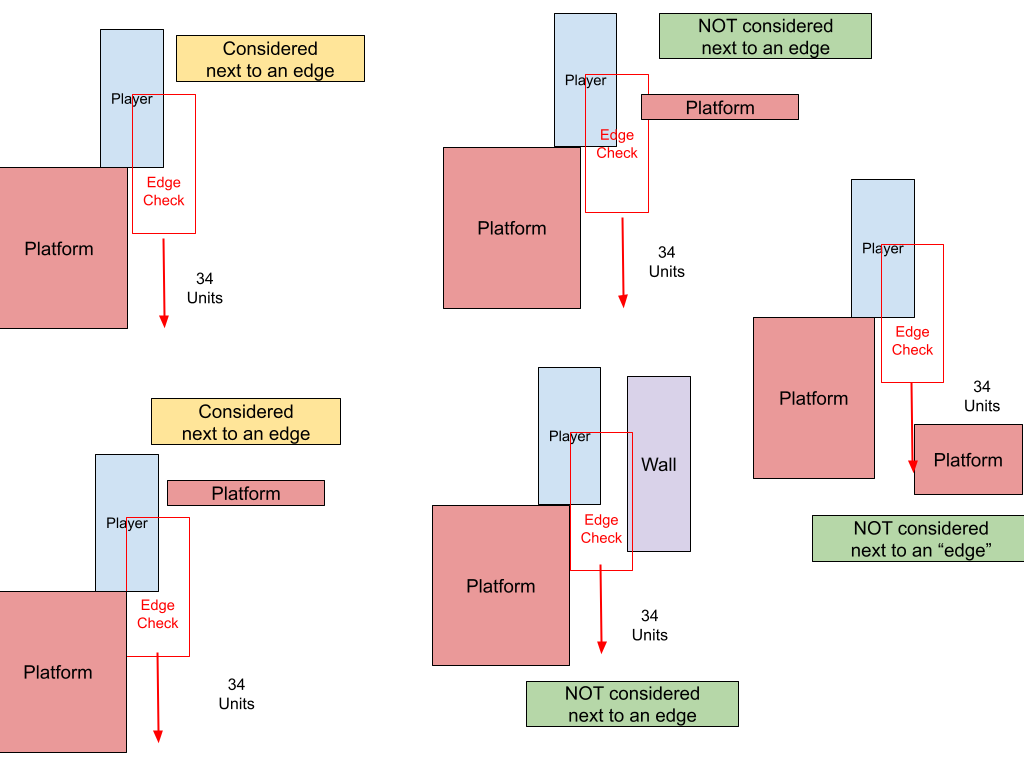
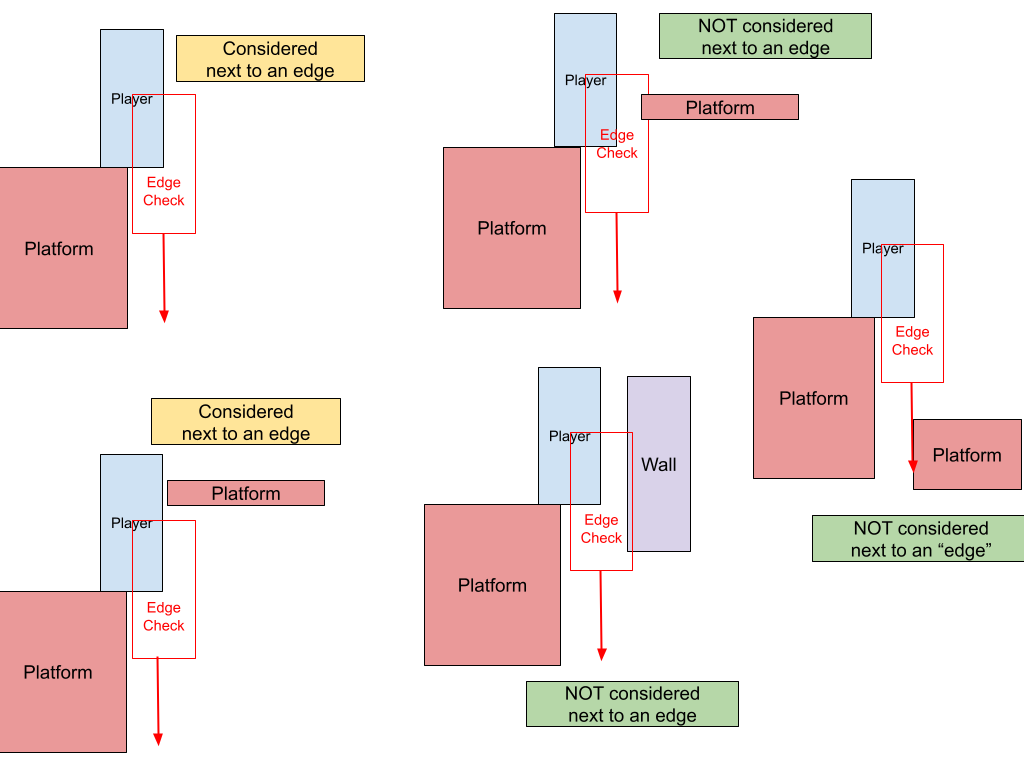
updated images/some spell checking

diff --git a/content/docs/guide/gamemodes/climb.md b/content/docs/guide/gamemodes/climb.md
@@ -44,14 +44,14 @@ Bhop jumps can also be required by the mapper by using "Bhop Blocks" that telepo
 
 ### Surf
 
-Surf is very similar to its game mode counterpart. KZT  is 128 tick, MomClimb and 1.6 Climb are 100 tick while the Surf game mode is 66 tick. This means gaining speed is quicker and losing speed is harder in Climb compared to Surf.  
+Surf is very similar to its game mode counterpart. KZT is 128 tick, MomClimb and 1.6 Climb are 100 tick while the Surf game mode is 66 tick. This means gaining speed is quicker and losing speed is harder in Climb compared to Surf.  
 Maps made with MomClimb and KZT in mind can have traditional surf sections. The length and difficulty of these sections are entirely up to the map. Usually they are much shorter (sometimes only 1 ramp) compared to dedicated Surf maps.  
 1.6 Climb has a special version of Surf called **Slide**.  
 1.6 Climb has much lower air acceleration (10aa compared to MomClimb and KZT's 100aa). This means players can't as easily flick onto a ramp ("board") and generate speed or flick off a ramp and generate height.    
 Because of this "Slide" sections are usually brief and focus on keeping on the board rather than gaining enough speed to fly off.
-
+{{< hint info >}}
 Remember that in any movement mode you can always slide up gentle slopes with just 'W' while looking at the slope!
-
+{{< /hint >}}
 ### Stamina (Jump-Land Penalty) [1.6 Climb Only]
 
 Any time the player jumps (not when they are in the air for any other reason such as falling off something) a timer starts for about 1.31 seconds.
@@ -62,39 +62,56 @@ This means that jumping up to something slows you down longer and harder since y
 The slowdown affects both horizontal and vertical movement: running is slower but also your jump height is reduced
 {{< /hint >}}
 A Bhop, even a perfect one, does not circumvent the vertical movement penalty: Bhops will always get smaller height compared to a normal jump, unless the Bhop was done after falling long enough to expire the stamina timer, or the Bhop was done after walking off a platform rather than jumping off.  
-Thus, Bhops may not always give you the best distance or be able to reach high places, but it is important to keep the exceptions in mind.  
+Thus, Bhops usually do not give you the best distance or let you reach high places, but it is important to keep the exceptions in mind.  
 [for more technical details and exact values, refer to this doc](https://kzguide.gitlab.io/techniques/stamina/).
+{{< hint info >}}
+Imperfect Bhops are affected by the horizontal movement penalty which compounds with friction, mistiming Bhops carries a much steeper penalty compared to game modes without stamina like KZT, Bhop, or Surf
+{{< /hint >}}
 
 ---
 ## Advanced Techniques
 
 ### Wallrun/Wallstrafe
-Running against a wall at a shallow angle will grant you higher speeds similar to a Prestrafe. 
-There are 2 ways of doing this:
+Running against a wall at a shallow angle or Airstrafing perpendicular to a wall will grant you higher speeds. 
+For Wallruns, there are 2 common ways of setting up the correct angle:
 1. look slightly into the wall and press only W. 
 2. look slightly away from the wall and press W+A if the wall is to the left, W+D if it's to the right.  
-Method 2 also works in the air by Airstrafing into the wall with only A/D instead of W+A/D. 
-(Be careful! Continuing to move your mouse after contacting the wall can drain your speed if you look to far in or away!) 
+For Wallstrafes, while in the air bring your view parallel with the wall (you can either start parallel or Airstrafe until you're parallel), then hold only A/D. As long as you make contact with the wall you will gain speed.
+(Be careful! Continuing to move your mouse after contacting the wall can drain your speed if you look too far in or away!) 
 ![wallstrafe](/images/climb/Wallstrafe.png)  
 
 ### Fast Ladder Climbing 
-Ladders can be climbed by "walking into them". If you are directly facing the ladder hold W, if sideways A/D. If you face the ladder diagonally you can climb the ladder both ways. If you hold W and A/D the speeds add onto each other resulting in a much faster climb.    
+Ladders can be climbed by "walking into them". If you are directly facing or look up at the ladder hold W, if backwards or looking down S, if sideways A/D. Notice how it is possible to look up/down and sideways at the same time. If you hold W and A/D while being sideways and looking up the speeds add onto each other resulting in a much faster climb.    
 
 ### Ladder Jump
-The speed you gain from fast ladder climbing is enough to fling you into the air! This technique does not have anything to do with inputting jump (which just pushes you off the ladder) and is more like surfing. The way you flick off dictates your trajectory, and whether you trade speed for height and vice versa.  However, unlike surfing there is no acceleration or deceleration on ladders, so speed changes instantly when you move your mouse or change inputs.
+The speed you gain from fast ladder climbing is enough to fling you into the air! This technique does not have anything to do with inputting jump (which just pushes you off the ladder) and is more like surfing. Right before leaving the top of the ladder flick away, right if holding A and left for D (the opposite of how you Airstrafe!). How far you flick out determines how much height is traded for speed. After you leave the ladder, immediately switch strafe keys and start course-correcting and gaining extra speed with proper Airstrafing.
+{{< hint info >}}
+Unlike surfing, there is no acceleration or deceleration on ladders, even the smallest segment of ladder can instantly change your speed when you move your mouse or change inputs.
+Really it is only the top of the ladder (or wherever you decide the takeoff point is) that determines your speed and trajectory. Also, how far up/down you look also affects speed, height and trajectory
+{{</hint>}}
 
 ### Crouch Bhop
 Bhopping starting in a crouch position. If a jump is started from a standing position, crouching in the air will raise your collision box up 18 units (you tuck in your legs). If you start in a crouched position and jump you will not be able to get this extra 18 units of height.  
-This is great when trying to avoid map hazards like low ceilings, since you stay low to the ground while keeping a small collision box if you choose to stay crouched.  ![crouch bhop](/images/climb/Crouch_Bhop.png)
+This is great when trying to avoid map hazards like low ceilings, since you stay low to the ground while keeping a small collision box if you choose to stay crouched.  ![crouch Bhop](/images/climb/Crouch_Bhop.png)
 {{< hint info >}}
-Crouching will also limit your ability to turn in the air and thus gain speed as well.
+Jumping then crouching still keeps your head lower than a jump without any crouching despite getting more height
+{{< /hint >}}
+{{< hint warning >}}
+Crouching will limit your ability to turn in the air and thus gain speed as well
 {{< /hint >}}
 
 ### Drop Bhop
-Walking off or jumping off a platform and then bhopping on a platform below. In Climb modes without stamina (KZT) it functions identicaly to a standard Bhop although the timing to input jump is harder since the player is faller faster.  
+Walking off or jumping off a platform and then Bhopping on a platform below. In Climb modes without stamina (KZT) it functions identically to a standard Bhop although the timing to input jump is harder since the player is faller faster.  
+In Climb modes with Stamina (1.6) Walking off gives no jump-land penalty to the Bhop while jumping off gives a reduced penalty (potentially none if the player fell far enough).
+{{< hint info >}}
+In 1.6 Climb, the Drop Bhop is further categorized. Walking off is a Weird Jump while jumping off is a Drop Bhop
+{{< /hint >}}
+
+### Drop Bhop
+Walking off or jumping off a platform and then bhopping on a platform below. In Climb modes without stamina (KZT) it functions identically to a standard Bhop although the timing to input jump is harder since the player is faller faster.  
 In Climb modes with Stamina (1.6) Walking off gives no jump-land penalty to the bhop while jumping off gives a reduced penalty (potentially none if the player fell far enough).
 {{< hint info >}}
-In 1.6 Climb, the Drop Bhop is futher categorized. Walking off is a Weird Jump while jumping off is a Drop Bhop
+In 1.6 Climb, the Drop Bhop is further categorized. Walking off is a Weird Jump while jumping off is a Drop Bhop
 {{< /hint >}}
 
 ### Comboing 
@@ -152,7 +169,7 @@ move the box down 34 units while checking if it intersects with anything. If the
 To simplify, if the player were to move an additional 16 units in their current direction, then fall straight down 70 units would they, at any time, collide with anything from the waist down?  If not, edge friction is enabled
 ![high jump](/images/climb/High_Jump.png)  
 In most cases this works as intended; High jumps will gain less distance when jumping from the edge because of the slower takeoff speed. The obvious solution is to jump slightly before reaching the edge, this will give more distance but is it enough to cover the 16 units you lose out on? Generally yes, but there is a way to optimize this further.  
-Remember the engine only checks in the direction you are moving, if you are moving parallel to an edge, you are not considered "next to an edge" regardless of how close you actually are to one. Unfortunately we can't stay parallel when prestrafing and the speed it offers is too good to pass up on. We must compromise, start facing parallel to the edge and perform a wide prestrafe, make sure the angle you turn towards the edge is as shallow as possible. The game will use the shallow angle for edge dectection which will return true later when compared to running straight at the edge. The shape of the platform plays a big role in High Jumps, a small square platform can't really be taken advantage of by this trick. 
+Remember the engine only checks in the direction you are moving, if you are moving parallel to an edge, you are not considered "next to an edge" regardless of how close you actually are to one. Unfortunately we can't stay parallel when prestrafing and the speed it offers is too good to pass up on. We must compromise, start facing parallel to the edge and perform a wide prestrafe, make sure the angle you turn towards the edge is as shallow as possible. The game will use the shallow angle for edge detection which will return true later when compared to running straight at the edge. The shape of the platform plays a big role in High Jumps, a small square platform can't really be taken advantage of by this trick. 
 Yet still there is even better and more intuitive method. Use Count Jumps! Edge friction does not apply in the air nor to a perfect bhop. Initiate the first Double Duck before the edge and then bhop on the edge. This will get way more distance then the previous method, in fact you can get more distance than even a Long Jump on ground level!
 
 {{< hint warning >}}
@@ -175,6 +192,11 @@ For example, a player is running at 250 speed, starts Prestrafing to 265 (really
 2 outcomes can occur:  
 Outcome 1: The player does not immediately Prestrafe.  Friction slows “normal speed” from 285 to 250. Prestrafe rule slows “Prestrafe boost” from +15 to +0. The player has a final speed of 250 right after landing, which gives the appearance of vanilla physics.  
 Outcome 2: the player immediately Prestrafes upon landing. Friction slows “normal speed” from 285 to 250. Prestrafe rule does not activate and the +15 speed is kept. The player has a final speed of 265 right after landing and will continue to climb from there as the player Prestrafes. The player performed a Prekeep!
+
+### 66 unit Crouch Jumps (KZT only)
+In KZT, crouching right before a jump and right after are not equal. Starting a crouch one tick or more before the jump gives more height 66 units vs 64.84 units.  
+The trade-off is that the player loses speed as they transition into a crouch. The longer the player holds crouch the more speed is lost. These are best used when height is a priority over distance, since with imperfect execution more slow-down will occur than necessary, shortening the length of the jump.
+
 
 
 
